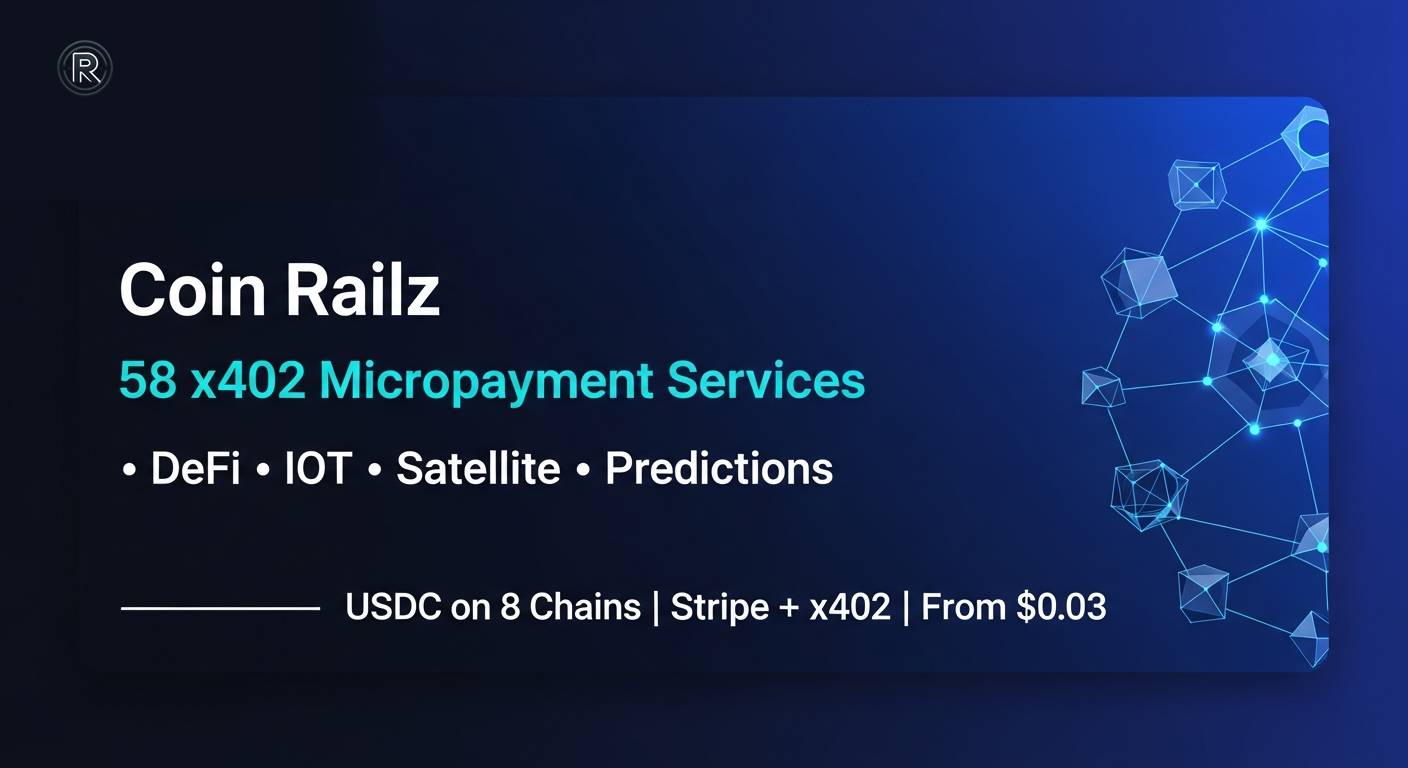
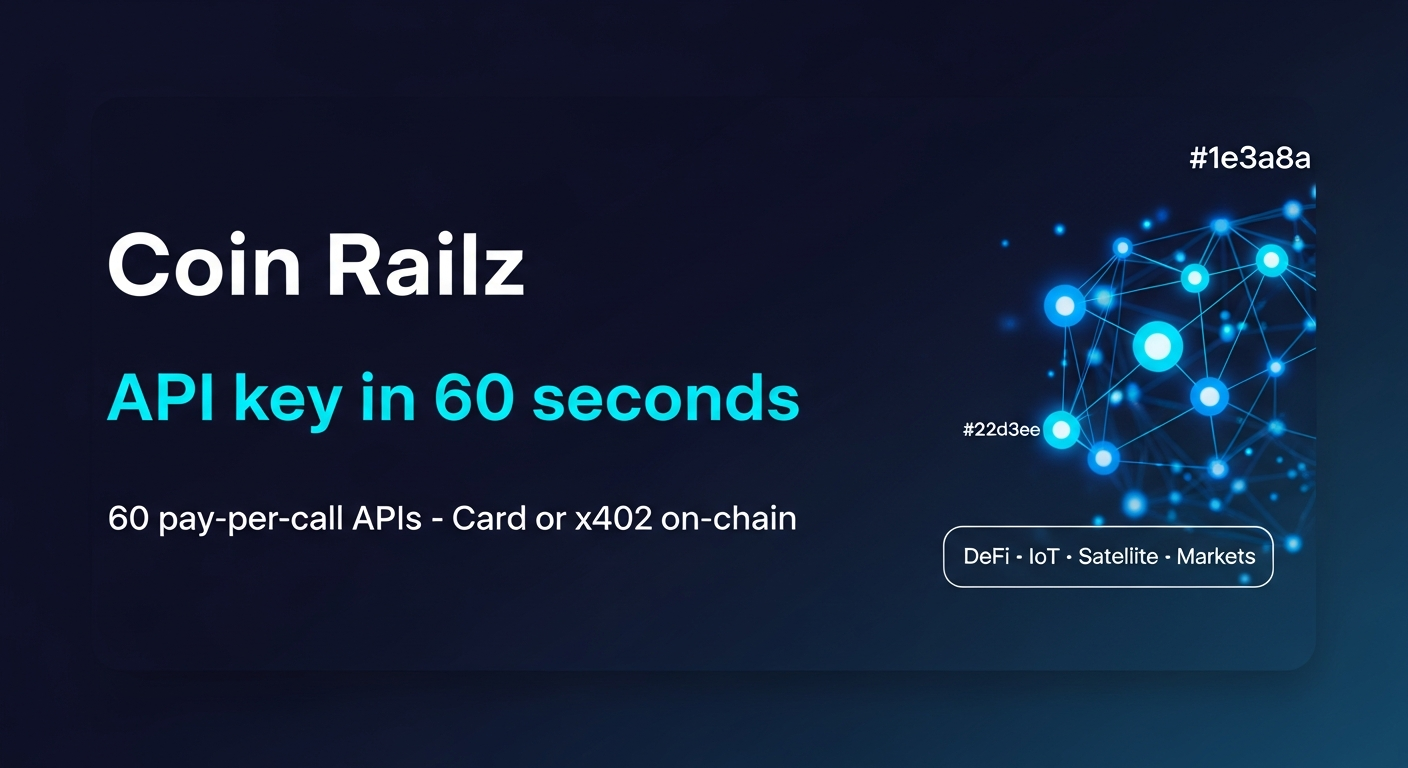
Update website copy and SEO elements to reflect new service offerings
Update meta tags, page titles, and descriptions to reflect changes in service count and payment options. Add cache-busting parameter to OG image URLs.

Replit-Commit-Author: Agent
Replit-Commit-Session-Id: 487d1928-4f83-4c34-9d31-d82c29439f54
Replit-Commit-Checkpoint-Type: full_checkpoint
Replit-Commit-Event-Id: 20251aef-8c6a-4a79-b1a9-6f94a3b0361f
Replit-Commit-Screenshot-Url: https://storage.googleapis.com/screenshot-production-us-central1/b9c7a16b-b90f-4d3c-b73c-bb8d49f9a8fd/487d1928-4f83-4c34-9d31-d82c29439f54/ceQP5Rd

diff --git a/client/src/pages/landing.tsx b/client/src/pages/landing.tsx
@@ -154,37 +154,37 @@ export default function Landing() {
             
             {/* Main Value Proposition */}
             <h1 className="text-3xl sm:text-5xl md:text-6xl font-bold text-gray-900 mb-3 sm:mb-6 leading-tight px-2">
-              Micropayment Rail for<br />AI Agents & TradFi Developers
+              60 Pay-Per-Call APIs<br />for AI Agents
             </h1>
             
             <p className="text-base sm:text-2xl text-gray-600 mb-4 sm:mb-8 px-4 max-w-3xl mx-auto">
-              Two payment rails, one platform. x402/USDC for autonomous agents. Stripe prepaid credits for TradFi teams. 58 x402 services from crypto to satellite data & IoT.
+              Get an API key in ~60 seconds via card. Access DeFi, IoT, satellite data, and prediction market feeds instantly. x402 on-chain USDC also supported for advanced flows.
             </p>
             
-            {/* Trust Badges - Dual Rail Focus with Crypto Proof */}
+            {/* Trust Badges - Card first, x402 secondary */}
             <div className="flex flex-wrap items-center justify-center gap-2 sm:gap-3 mb-6 sm:mb-8 text-sm text-gray-700">
               <div className="flex items-center space-x-2">
-                <Badge className="bg-blue-100 text-blue-800">✓ x402/USDC on Ethereum & Base</Badge>
+                <Badge className="bg-green-100 text-green-800">✓ API Key in ~60 Seconds</Badge>
               </div>
               <div className="flex items-center space-x-2">
-                <Badge className="bg-green-100 text-green-800">✓ Stripe Prepaid Credits</Badge>
+                <Badge className="bg-blue-100 text-blue-800">✓ 60 Pay-Per-Call APIs</Badge>
               </div>
               <div className="flex items-center space-x-2">
                 <Badge className="bg-orange-100 text-orange-800">✓ Coinbase Agentic Wallets</Badge>
               </div>
               <div className="flex items-center space-x-2">
-                <Badge className="bg-purple-100 text-purple-800">✓ Stock & Forex APIs</Badge>
+                <Badge className="bg-purple-100 text-purple-800">✓ x402 On-Chain (Advanced)</Badge>
               </div>
             </div>
 
-            {/* PRIMARY CTA - $10 Starter + Pilot Credits */}
+            {/* PRIMARY CTA - Card-first instant API key */}
             <div className="max-w-lg mx-auto mb-6 sm:mb-8 space-y-3">
               <Link href="/pilots/buy">
                 <div 
                   className="flex items-center justify-between border-2 border-green-400 bg-gradient-to-r from-green-50 to-emerald-50 hover:shadow-lg transition-shadow cursor-pointer rounded-lg px-4 py-3"
                   data-testid="card-starter-credits"
                   onClick={() => {
-                    trackEvent('click', 'landing_starter_cta', 'starter_credits_10');
+                    trackEvent('click', 'landing_starter_cta', 'starter_credits_card');
                     trackBusinessEvent('starter_credit_purchase_intent', { payment_method: 'stripe', user_type: 'new_customer', value: 10 });
                   }}
                 >
@@ -193,8 +193,8 @@ export default function Landing() {
                       <Zap className="w-5 h-5 text-green-600" />
                     </div>
                     <div className="min-w-0">
-                      <div className="text-sm font-semibold text-green-900">$10 Starter Credits</div>
-                      <div className="text-xs text-green-700">Try any API instantly • Card or Crypto</div>
+                      <div className="text-sm font-semibold text-green-900">Get API Key via Card — ~60 Seconds</div>
+                      <div className="text-xs text-green-700">Pay by card • Instant API key • All 60 APIs unlocked</div>
                     </div>
                   </div>
                   <Button 
@@ -233,8 +233,8 @@ export default function Landing() {
             {/* Key Stats - Verified counts only */}
             <div className="grid grid-cols-3 gap-4 max-w-2xl mx-auto mb-6 sm:mb-8">
               <div className="text-center">
-                <div className="text-2xl sm:text-3xl font-bold text-blue-600">58</div>
-                <div className="text-xs sm:text-sm text-gray-600">x402 Services</div>
+                <div className="text-2xl sm:text-3xl font-bold text-blue-600">60</div>
+                <div className="text-xs sm:text-sm text-gray-600">APIs Available</div>
               </div>
               <div className="text-center">
                 <div className="text-2xl sm:text-3xl font-bold text-green-600">2</div>
@@ -243,6 +243,27 @@ export default function Landing() {
               <div className="text-center">
                 <div className="text-2xl sm:text-3xl font-bold text-purple-600">$0.10</div>
                 <div className="text-xs sm:text-sm text-gray-600">Starting Price</div>
+              </div>
+            </div>
+
+            {/* Pricing Ladder - reconciles per-call vs credit pack */}
+            <div className="max-w-2xl mx-auto mb-8 px-4">
+              <div className="bg-gray-50 border border-gray-200 rounded-xl px-5 py-4">
+                <p className="text-xs font-semibold text-gray-500 uppercase tracking-wide mb-3">How Pricing Works</p>
+                <div className="grid grid-cols-3 gap-3 text-center">
+                  <div>
+                    <div className="text-sm font-bold text-gray-900">From $0.03</div>
+                    <div className="text-xs text-gray-500 mt-0.5">per API call<br />(from credits)</div>
+                  </div>
+                  <div className="border-x border-gray-200">
+                    <div className="text-sm font-bold text-gray-900">$5 intro</div>
+                    <div className="text-xs text-gray-500 mt-0.5">~80–100 calls<br />to get started</div>
+                  </div>
+                  <div>
+                    <div className="text-sm font-bold text-gray-900">$10 recommended</div>
+                    <div className="text-xs text-gray-500 mt-0.5">~200 calls<br />production-ready</div>
+                  </div>
+                </div>
               </div>
             </div>
 

diff --git a/client/index.html b/client/index.html
@@ -9,9 +9,9 @@
     <meta name="viewport" content="width=device-width, initial-scale=1.0" />
     
     <!-- Primary SEO Meta Tags -->
-    <title>Coin Railz | 58 x402 Micropayment Services for AI Agents</title>
-    <meta name="description" content="58 x402 micropayment services for AI agents across DeFi, IoT, satellite data &amp; prediction markets. USDC on 8 chains. Stripe + x402 dual payment rails. Pay per request from $0.03. No subscriptions." />
-    <meta name="keywords" content="x402 protocol, AI agent payments, micropayments, USDC payments, Base blockchain, Stripe x402, agentic commerce, agent-to-agent payments, MCP payments, IoT payments, satellite data API, prediction markets API, DeFi API, pay per use API, machine payments" />
+    <title>Coin Railz | 60 Pay-Per-Call APIs for AI Agents — API Key in 60 Seconds</title>
+    <meta name="description" content="Access 60 pay-per-call APIs for AI agents across DeFi, IoT, satellite data &amp; prediction markets. Get an API key in ~60 seconds via card, or use on-chain USDC via x402. USDC on 8 chains. From $0.03/call." />
+    <meta name="keywords" content="AI agent payments, pay per call API, x402 protocol, API key instant, micropayments, USDC payments, Base blockchain, Stripe x402, agentic commerce, agent-to-agent payments, MCP payments, IoT payments, satellite data API, prediction markets API, DeFi API, pay per use API, machine payments" />
     <meta name="robots" content="index, follow" />
     <meta name="author" content="Coin Railz" />
     <link rel="canonical" href="https://coinrailz.com" />
@@ -19,9 +19,9 @@
     <!-- Open Graph / Facebook -->
     <meta property="og:type" content="website" />
     <meta property="og:url" content="https://coinrailz.com" />
-    <meta property="og:title" content="Coin Railz | 58 x402 Services for AI Agents" />
-    <meta property="og:description" content="58 x402 micropayment services for AI agents. DeFi, IoT, satellite data &amp; prediction markets. USDC on 8 chains. Stripe + x402 dual rails. Pay per request from $0.03. Stripe-validated x402 infrastructure." />
-    <meta property="og:image" content="https://coinrailz.com/og-image.png" />
+    <meta property="og:title" content="Coin Railz | 60 APIs for AI Agents — API Key in 60 Seconds" />
+    <meta property="og:description" content="Get an API key in ~60 seconds via card. 60 pay-per-call APIs across DeFi, IoT, satellite data &amp; prediction markets. x402 on-chain USDC also supported for advanced flows. From $0.03/call." />
+    <meta property="og:image" content="https://coinrailz.com/og-image.png?v=20260314" />
     <meta property="og:image:width" content="1200" />
     <meta property="og:image:height" content="630" />
     <meta property="og:site_name" content="Coin Railz" />
@@ -29,9 +29,9 @@
     <!-- Twitter -->
     <meta property="twitter:card" content="summary_large_image" />
     <meta property="twitter:url" content="https://coinrailz.com" />
-    <meta property="twitter:title" content="Coin Railz | 58 x402 Services for AI Agents" />
-    <meta property="twitter:description" content="58 x402 micropayment services for AI agents. DeFi, IoT, satellite data &amp; prediction markets. USDC on 8 chains. Stripe + x402 dual rails. Pay per request from $0.03. Stripe-validated x402 infrastructure." />
-    <meta property="twitter:image" content="https://coinrailz.com/og-image.png" />
+    <meta property="twitter:title" content="Coin Railz | 60 APIs for AI Agents — API Key in 60 Seconds" />
+    <meta property="twitter:description" content="Get an API key in ~60 seconds via card. 60 pay-per-call APIs across DeFi, IoT, satellite data &amp; prediction markets. x402 on-chain USDC for advanced flows. From $0.03/call." />
+    <meta property="twitter:image" content="https://coinrailz.com/og-image.png?v=20260314" />
     <meta property="twitter:creator" content="@coinrailz" />
     <meta property="twitter:site" content="@coinrailz" />
     
@@ -56,7 +56,7 @@
       "name": "Coin Railz AI Agent Payments SDK",
       "applicationCategory": "DeveloperApplication",
       "operatingSystem": "Cross-platform",
-      "description": "The largest x402 micropayment service catalog for AI agents. 58 pay-per-use endpoints across DeFi, IoT, satellite data, and prediction markets. USDC on 8 chains with Stripe + x402 dual payment rails.",
+      "description": "60 pay-per-call APIs for AI agents across DeFi, IoT, satellite data, and prediction markets. Get an API key in ~60 seconds via card, or pay on-chain with USDC via x402.",
       "url": "https://coinrailz.com",
       "logo": "https://coinrailz.com/logo.png",
       "programmingLanguage": ["TypeScript", "JavaScript", "Python"],
@@ -74,7 +74,7 @@
       "featureList": [
         "Non-custodial USDC payments",
         "Multi-chain support (Base, Ethereum, Polygon, Arbitrum, BSC, Optimism, Solana)",
-        "58 x402 micropayment services",
+        "60 pay-per-call APIs",
         "ElizaOS plugin compatibility",
         "AgentKit tool integration",
         "MCP server implementation",

diff --git a/client/src/hooks/useSEO.ts b/client/src/hooks/useSEO.ts
@@ -106,14 +106,14 @@ export const useSEO = (config: SEOConfig) => {
 // SEO configurations for different pages
 export const seoConfigs = {
   home: {
-    title: 'Coin Railz: Micropayment Rail for AI Agents & TradFi Developers | 38+ Services',
-    description: 'Dual-rail micropayment platform: x402/USDC for autonomous AI agents, Stripe prepaid credits for TradFi developers. 38+ microservices including stock sentiment, forex sentiment, crypto APIs. From $0.10/use.',
-    keywords: 'AI agent payments, x402 micropayments, TradFi AI tools, stock sentiment API, forex sentiment API, Stripe prepaid credits, autonomous agent infrastructure, multi-chain payment infrastructure, dex aggregator, crypto cash out, fiat off-ramp, swap crypto, zelle crypto, paypal crypto, venmo crypto, cash app crypto, ethereum swap, base chain, polygon swap, bsc swap, arbitrum, optimism, pulsechain, usdc payments, cross-platform payments, crypto to fiat, best crypto rates, p2p crypto, crypto trading infrastructure, AI agent marketplace, micropayment API, agent-to-agent payments, Coinbase CDP wallets',
+    title: 'Coin Railz | 60 Pay-Per-Call APIs for AI Agents — API Key in 60 Seconds',
+    description: 'Access 60 pay-per-call APIs for AI agents across DeFi, IoT, satellite data & prediction markets. Get an API key in ~60 seconds via card, or use on-chain USDC via x402. From $0.03/call.',
+    keywords: 'AI agent payments, pay per call API, API key instant, x402 protocol, micropayments, USDC payments, Base blockchain, Stripe x402, agentic commerce, agent-to-agent payments, MCP payments, IoT payments, satellite data API, prediction markets API, DeFi API, pay per use API, machine payments, Coinbase CDP wallets',
     canonical: 'https://coinrailz.com',
-    ogTitle: 'Coin Railz: Micropayment Rail for AI Agents & TradFi Developers',
-    ogDescription: 'Two payment rails, one platform. x402/USDC for agents, Stripe for TradFi. 38+ microservices: crypto APIs, stock sentiment, forex sentiment. From $0.10/use.',
-    twitterTitle: 'Micropayment Rail for AI Agents & TradFi Developers | Coin Railz',
-    twitterDescription: 'Dual-rail micropayments: x402/USDC for autonomous agents, Stripe for TradFi teams. 38+ services including stock & forex sentiment. Pay from $0.10.',
+    ogTitle: 'Coin Railz | 60 APIs for AI Agents — API Key in 60 Seconds',
+    ogDescription: 'Get an API key in ~60 seconds via card. 60 pay-per-call APIs across DeFi, IoT, satellite data & prediction markets. x402 on-chain USDC for advanced flows. From $0.03/call.',
+    twitterTitle: 'Coin Railz | 60 APIs for AI Agents — API Key in 60 Seconds',
+    twitterDescription: 'Get an API key in ~60 seconds via card. 60 pay-per-call APIs across DeFi, IoT, satellite data & prediction markets. x402 on-chain USDC for advanced flows.',
     structuredData: {
       "@context": "https://schema.org",
       "@type": "SoftwareApplication",
@@ -123,11 +123,11 @@ export const seoConfigs = {
       "offers": {
         "@type": "AggregateOffer",
         "priceCurrency": "USD",
-        "lowPrice": "0.10",
-        "highPrice": "5.00",
-        "description": "Pay-per-use micropayments from $0.10. x402/USDC for AI agents, Stripe prepaid credits for TradFi developers."
+        "lowPrice": "0.03",
+        "highPrice": "100.00",
+        "description": "60 pay-per-call APIs from $0.03/call. Get an API key in ~60 seconds via card, or pay on-chain with USDC via x402."
       },
-      "description": "Dual-rail micropayment platform for AI agents and TradFi developers. 38+ microservices including crypto APIs, stock sentiment, forex sentiment. Pay via x402/USDC or Stripe prepaid credits.",
+      "description": "60 pay-per-call APIs for AI agents across DeFi, IoT, satellite data, and prediction markets. Get an API key in ~60 seconds via card, or pay on-chain with USDC via x402.",
       "provider": {
         "@type": "Organization",
         "name": "Kellogg Holdings LLC",

diff --git a/client/src/pages/X402PartnerPage.tsx b/client/src/pages/X402PartnerPage.tsx
@@ -7,14 +7,14 @@ import { ArrowRight, Globe, Zap, Shield, BarChart3, Mail } from "lucide-react";
 export default function X402PartnerPage() {
   useSEO({
     title: "x402 Ecosystem Partner | Coin Railz",
-    description: "Join the x402 ecosystem. 58 services, 14 categories, 6 NASA/ESA satellite data products. Cross-promote, integrate, and grow together.",
+    description: "Join the x402 ecosystem. 60 services, 14 categories, 6 NASA/ESA satellite data products. Cross-promote, integrate, and grow together.",
     keywords: "x402, partner, ecosystem, AI agent payments, Coinbase Bazaar, USDC micropayments",
     ogTitle: "x402 Ecosystem Partner — Coin Railz",
-    ogDescription: "58 x402 services across 14 categories. Let's cross-promote and grow the agent economy together.",
+    ogDescription: "60 pay-per-call APIs across 14 categories. Let's cross-promote and grow the agent economy together.",
   });
 
   const stats = [
-    { label: "x402 Services", value: "58", sub: "across 14 categories" },
+    { label: "Pay-Per-Call APIs", value: "60", sub: "across 14 categories" },
     { label: "Satellite APIs", value: "6", sub: "NASA + ESA data" },
     { label: "Agents Discovered", value: "2,800+", sub: "via Bazaar indexing" },
     { label: "x402 Challenges", value: "23K+", sub: "402 responses served" },
@@ -55,7 +55,7 @@ export default function X402PartnerPage() {
               Let's Grow the Agent Economy Together
             </h1>
             <p className="text-lg text-gray-400 max-w-2xl mx-auto">
-              Coin Railz runs 58 x402 micropayment services on Base. We found your services on Bazaar and think there's an opportunity to collaborate.
+              Coin Railz runs 60 pay-per-call APIs on Base and Ethereum. We found your services on Bazaar and think there's an opportunity to collaborate.
             </p>
           </div>
 
